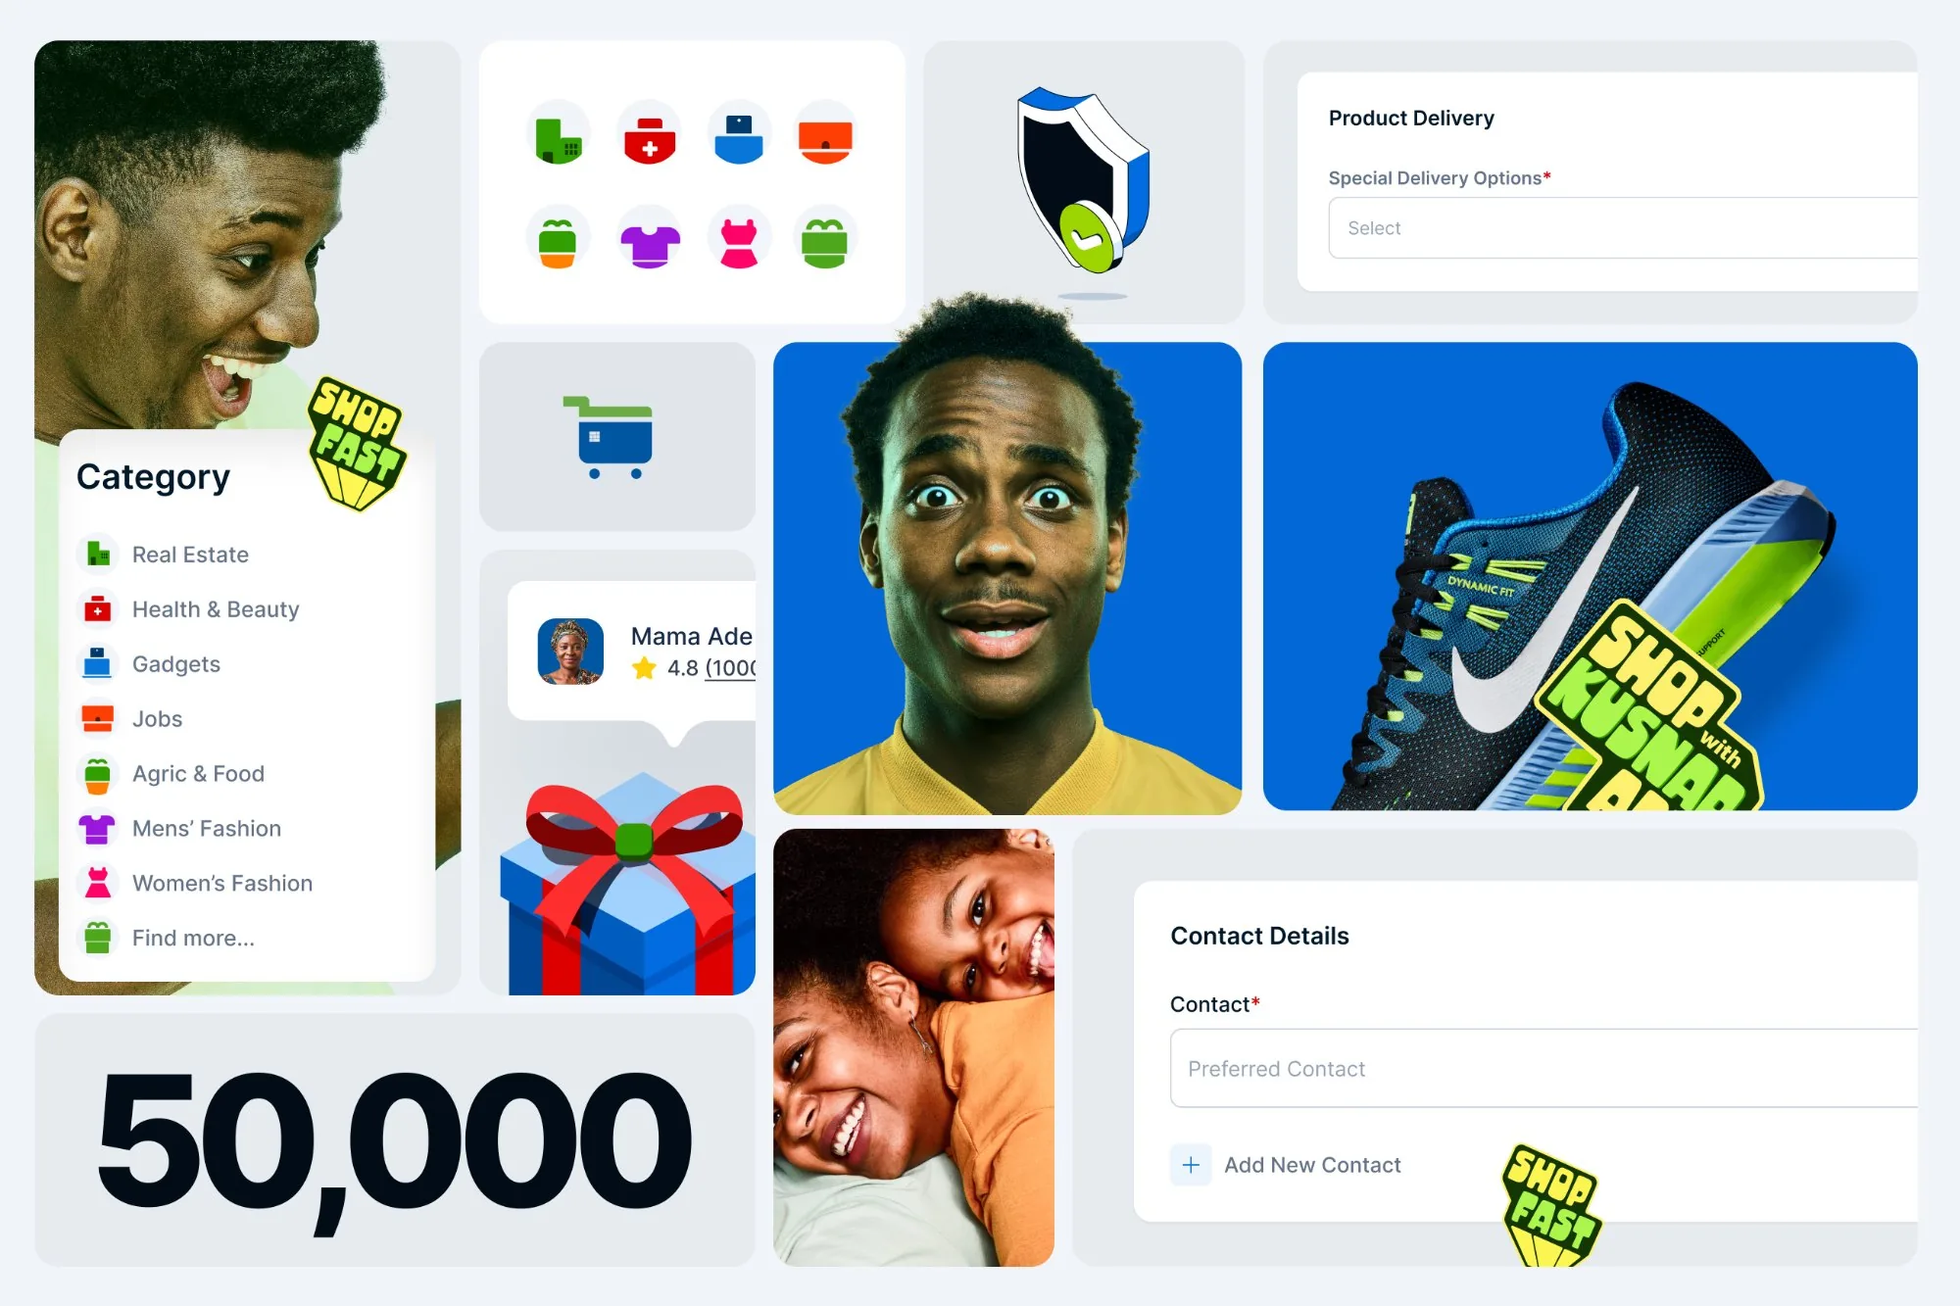
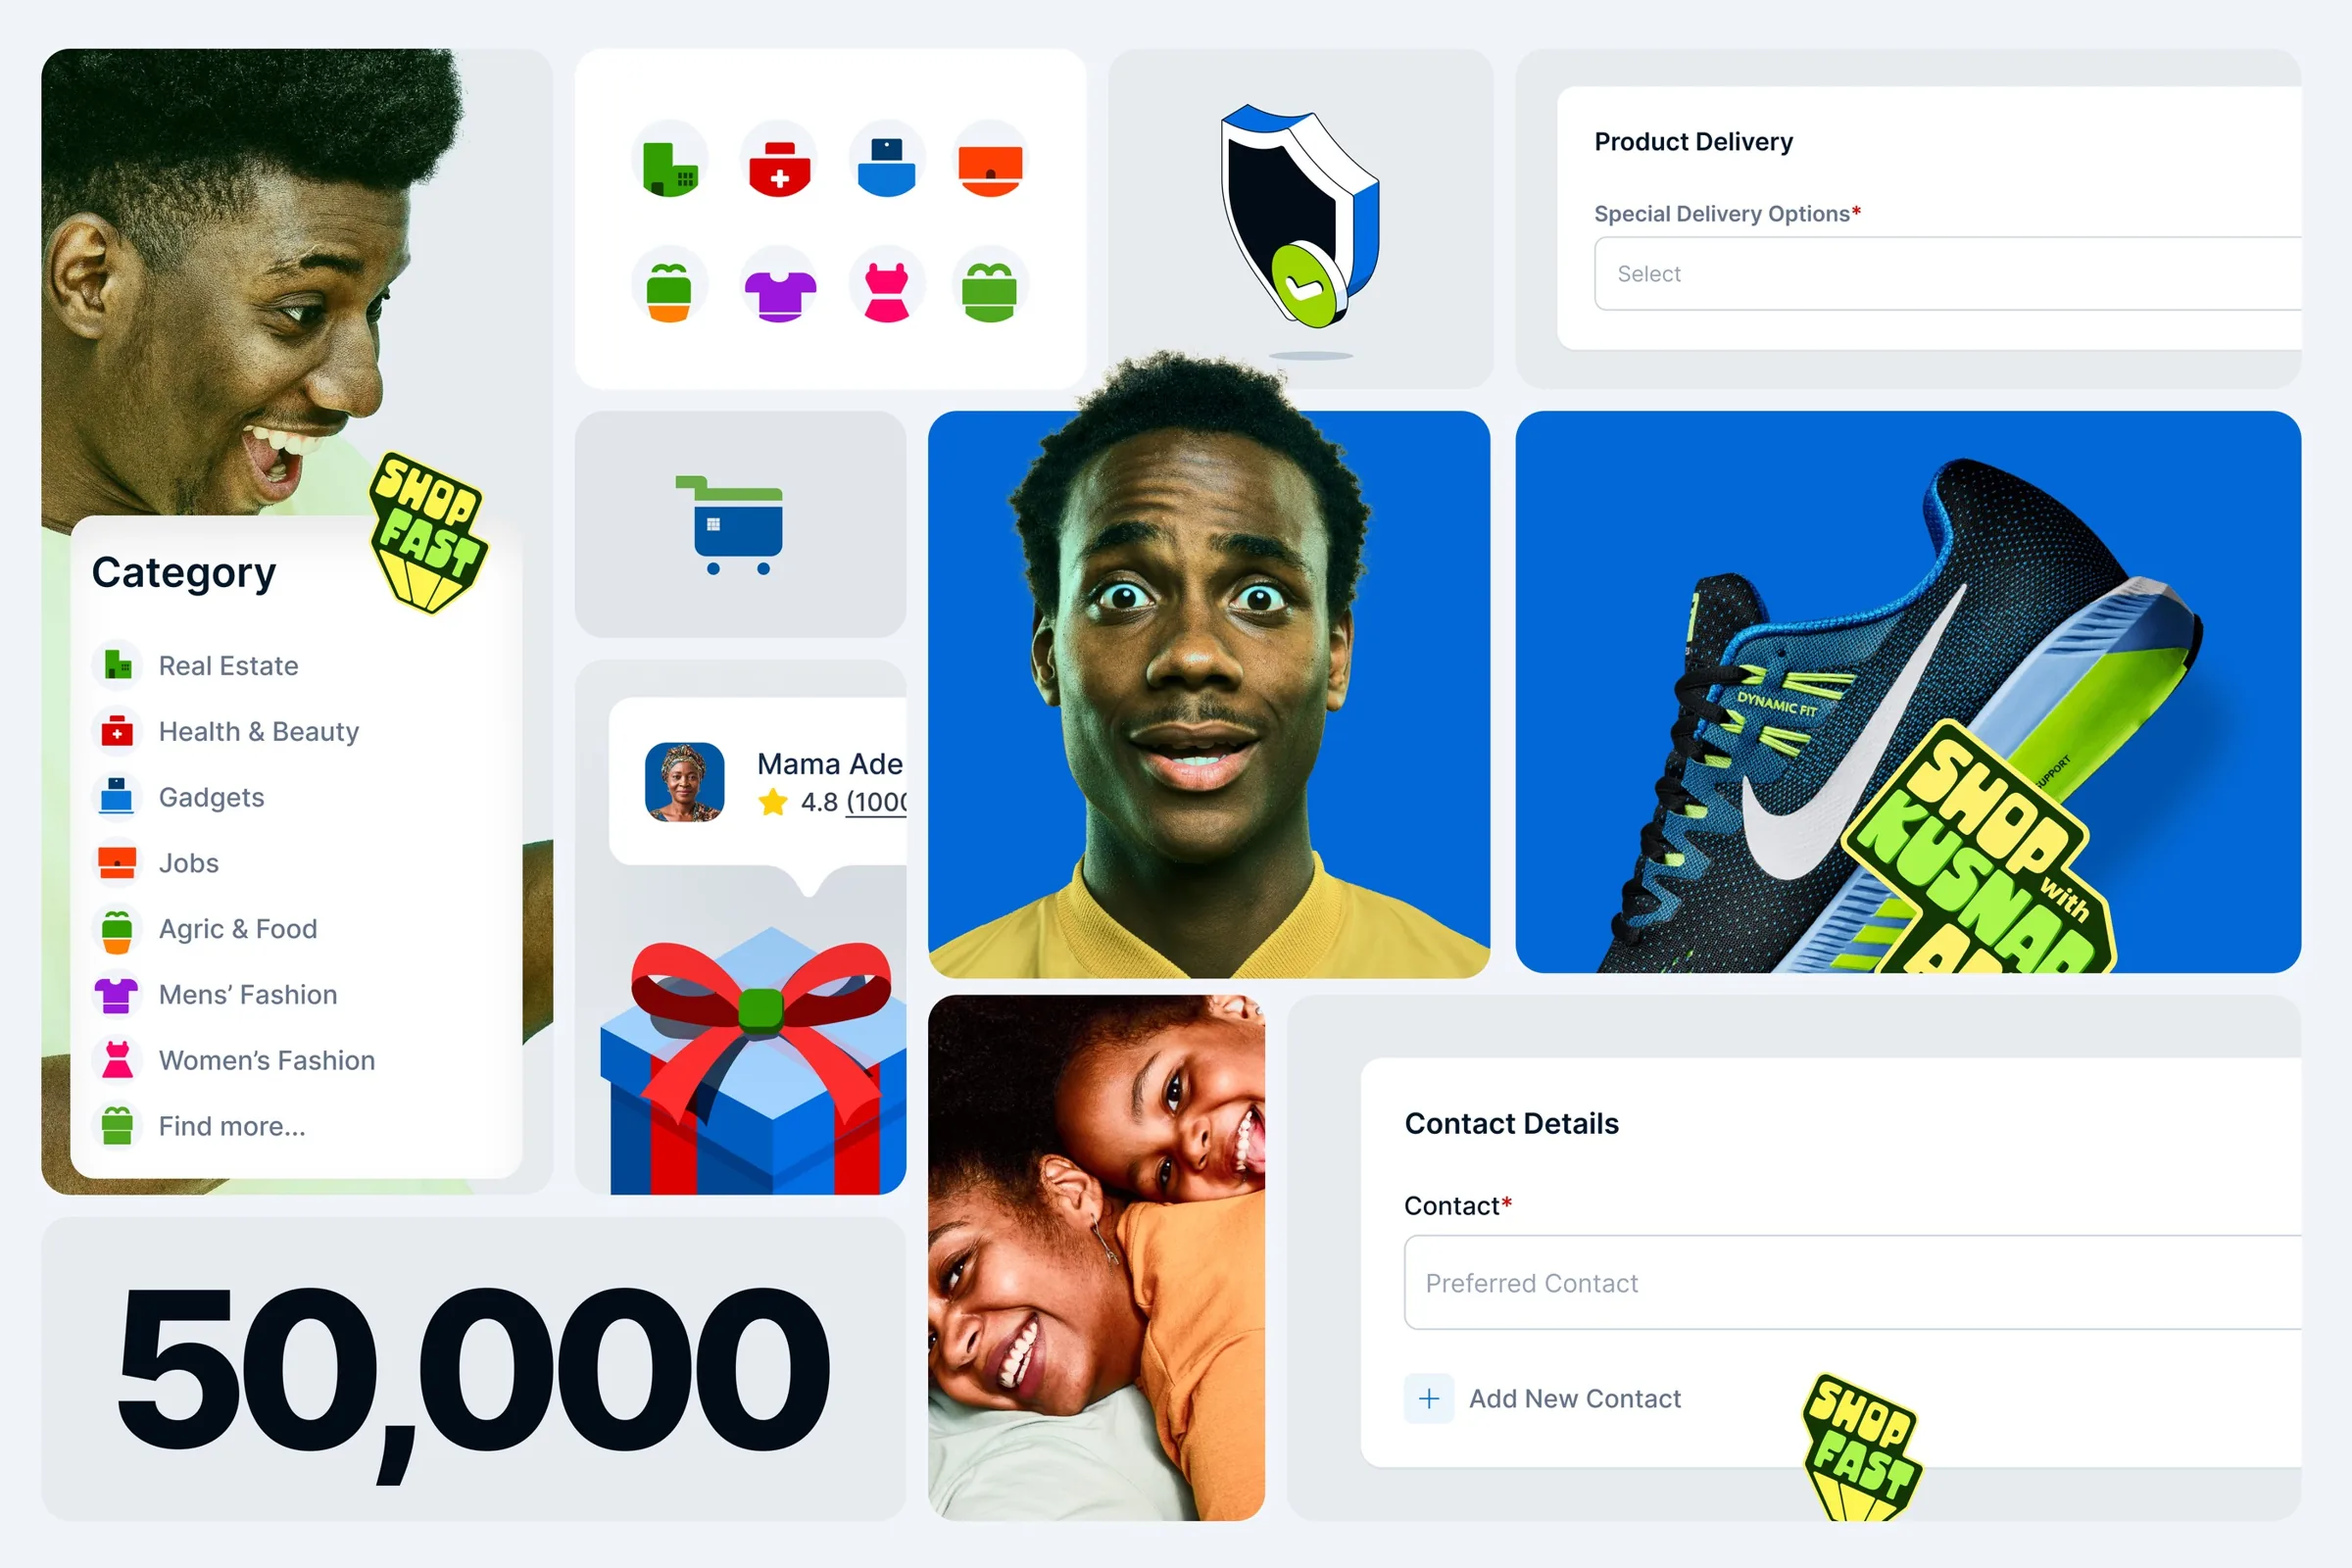
Sharper Kusnap cover and overview; uploads keep 2800px

diff --git a/cms/admin/app.js b/cms/admin/app.js
@@ -213,17 +213,17 @@
       im.onerror = () => res({}); im.src = src(p);
     });
   }
-  // pictures are made web-ready before they're uploaded: at most 2000px on the long side, and a JPEG unless they have
+  // pictures are made web-ready before they're uploaded: at most 2800px on the long side (sharp on retina screens), and a JPEG unless they have
   // see-through parts (then PNG), so a 3 MB render becomes a few hundred KB and the site stays quick
   async function webReady(f) {
     if (!/^image\/(png|jpe?g|webp)$/.test(f.type)) return f;
     const bmp = await createImageBitmap(f).catch(() => null); if (!bmp) return f;
-    const k = Math.min(1, 2000 / Math.max(bmp.width, bmp.height)), w = Math.round(bmp.width * k), h = Math.round(bmp.height * k);
+    const k = Math.min(1, 2800 / Math.max(bmp.width, bmp.height)), w = Math.round(bmp.width * k), h = Math.round(bmp.height * k);
     const cv = document.createElement('canvas'); cv.width = w; cv.height = h; const cx = cv.getContext('2d'); cx.drawImage(bmp, 0, 0, w, h);
     let alpha = false;
     if (f.type !== 'image/jpeg') { const d = cx.getImageData(0, 0, w, h).data; for (let i = 3; i < d.length; i += 4 * 7) if (d[i] < 250) { alpha = true; break; } }
     const type = alpha ? 'image/png' : 'image/jpeg';
-    const blob = await new Promise(r => cv.toBlob(r, type, .86));
+    const blob = await new Promise(r => cv.toBlob(r, type, .9));
     if (!blob || (k === 1 && blob.size >= f.size)) return f;   // already small: keep the original
     return new File([blob], f.name.replace(/\.[^.]+$/, '') + (alpha ? '.png' : '.jpg'), { type });
   }

diff --git a/index.html b/index.html
@@ -12,7 +12,7 @@
 <link rel="preconnect" href="https://fonts.gstatic.com" crossorigin>
 <link rel="stylesheet" href="https://fonts.googleapis.com/css2?family=Jockey+One&family=Geist:wght@400;500;600&family=Geist+Mono:wght@400;500;600;700&display=swap">
 <script>
-  var BUILD = "202610241604";   // changes every build so browsers fetch the new Designs page
+  var BUILD = "202610242057";   // changes every build so browsers fetch the new Designs page
   // Theme: remembered choice, else the system setting. Shared by index.html and designs.html.
   (function () { var t; try { t = localStorage.getItem('km-theme'); } catch (e) {}
     if (!t) t = matchMedia('(prefers-color-scheme: dark)').matches ? 'dark' : 'light';

diff --git a/projects.html b/projects.html
@@ -439,7 +439,7 @@ main > .stmt:first-child { padding-top: calc(var(--sp) + 60px) }   /* first thin
   </script>
   <script>
   document.addEventListener('click', function (e) { var a = e.target.closest && e.target.closest('a.ch.cs'); if (!a || e.metaKey || e.ctrlKey) return; e.preventDefault();
-    var hp = a.getAttribute('href').split('#'), href = hp[0] + '?v=202610241604#' + hp[1];
+    var hp = a.getAttribute('href').split('#'), href = hp[0] + '?v=202610242057#' + hp[1];
     if (window.Tuner) Tuner.go({ from: 102, to: +a.dataset.fq, name: a.dataset.nm, href: href }); else location.href = href; });
 </script>
 <script src="nav.js?v=c5eab834" defer></script>

diff --git a/product.html b/product.html
@@ -712,7 +712,7 @@ h1 .w.in > span { translate: 0 0 }
   document.title = it.t + ' · Kingsley M.';
   var st = q('.station'); st.setAttribute('data-readout', '');
   q('.fq', st).textContent = K.FQ(K.cur).toFixed(1); q('.nm', st).textContent = it.t;
-  var back = q('.back', st); back.removeAttribute('onclick'); back.href = 'designs.html?v=202610241604';
+  var back = q('.back', st); back.removeAttribute('onclick'); back.href = 'designs.html?v=202610242057';
   back.addEventListener('click', function (e) { if (e.metaKey || e.ctrlKey) return; e.preventDefault(); go(100, 'Designs', back.href); });
   var n = q('.next');
   if (n) {

diff --git a/showcase.html b/showcase.html
@@ -529,7 +529,7 @@ h1 .w.in > span { translate: 0 0 }
   document.title = it.t + ' · Kingsley M.';
   var st = q('.station'); st.setAttribute('data-readout', '');
   q('.fq', st).textContent = K.FQ(K.cur).toFixed(1); q('.nm', st).textContent = it.t;
-  var back = q('.back', st); back.removeAttribute('onclick'); back.href = 'designs.html?v=202610241604';
+  var back = q('.back', st); back.removeAttribute('onclick'); back.href = 'designs.html?v=202610242057';
   back.addEventListener('click', function (e) { if (e.metaKey || e.ctrlKey) return; e.preventDefault(); go(100, 'Designs', back.href); });
   var n = q('.next');
   if (n) {

diff --git a/project.html b/project.html
@@ -244,7 +244,7 @@ figure { margin: 0 }
 </style>
 </head>
 <body>
-<div class="station" data-readout><a class="back" href="designs.html?v=202610241604" id="back"><span aria-hidden="true">‹</span><b>100.0</b> Designs</a><span class="fq" id="fq"></span><span class="nm" id="nm"></span></div>
+<div class="station" data-readout><a class="back" href="designs.html?v=202610242057" id="back"><span aria-hidden="true">‹</span><b>100.0</b> Designs</a><span class="fq" id="fq"></span><span class="nm" id="nm"></span></div>
 <main class="wrap" id="page"></main>
 <div class="sdial" aria-hidden="true"><canvas id="sdial"></canvas></div>
 

diff --git a/logo.html b/logo.html
@@ -523,7 +523,7 @@ figure { margin: 0 }
   document.title = it.t + ' · Kingsley M.';
   var st = q('.station'); st.setAttribute('data-readout', '');
   q('.fq', st).textContent = K.FQ(K.cur).toFixed(1); q('.nm', st).textContent = it.t;
-  var back = q('.back', st); back.removeAttribute('onclick'); back.href = 'designs.html?v=202610241604';
+  var back = q('.back', st); back.removeAttribute('onclick'); back.href = 'designs.html?v=202610242057';
   back.addEventListener('click', function (e) { if (e.metaKey || e.ctrlKey) return; e.preventDefault(); go(100, 'Designs', back.href); });
   var n = q('.next');
   if (n) {
